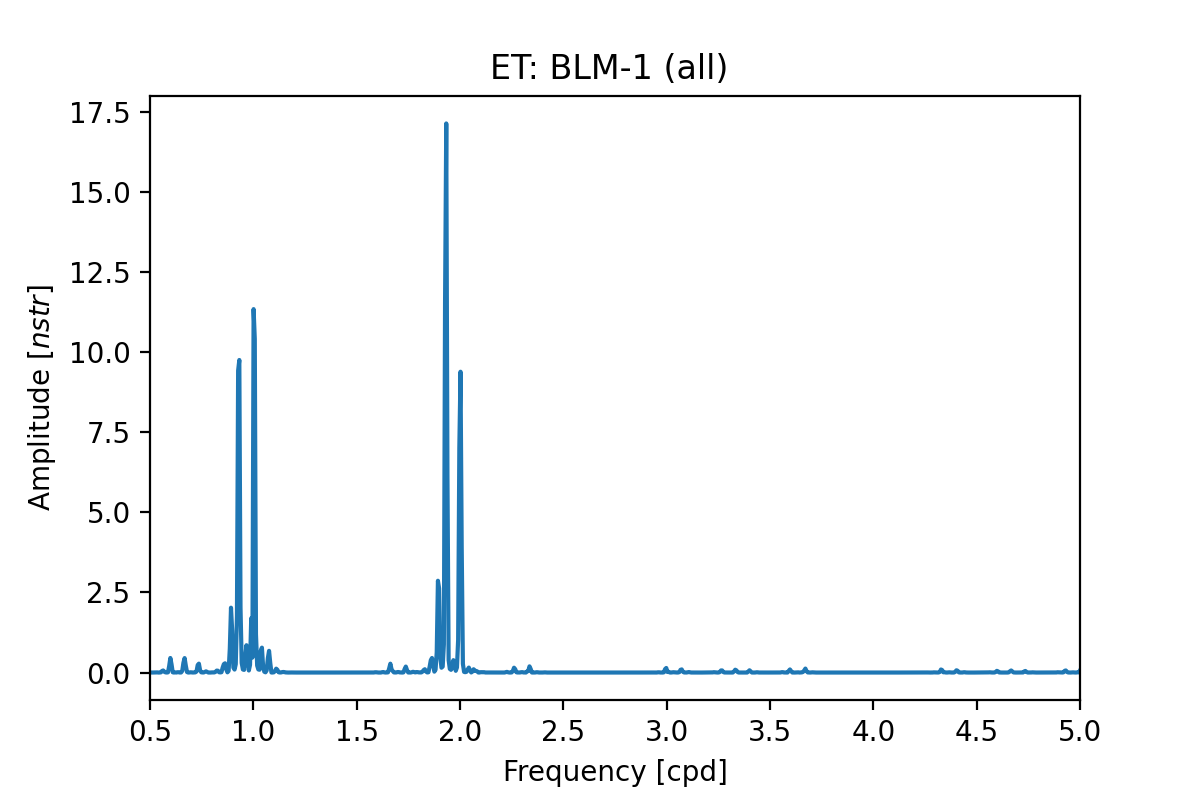
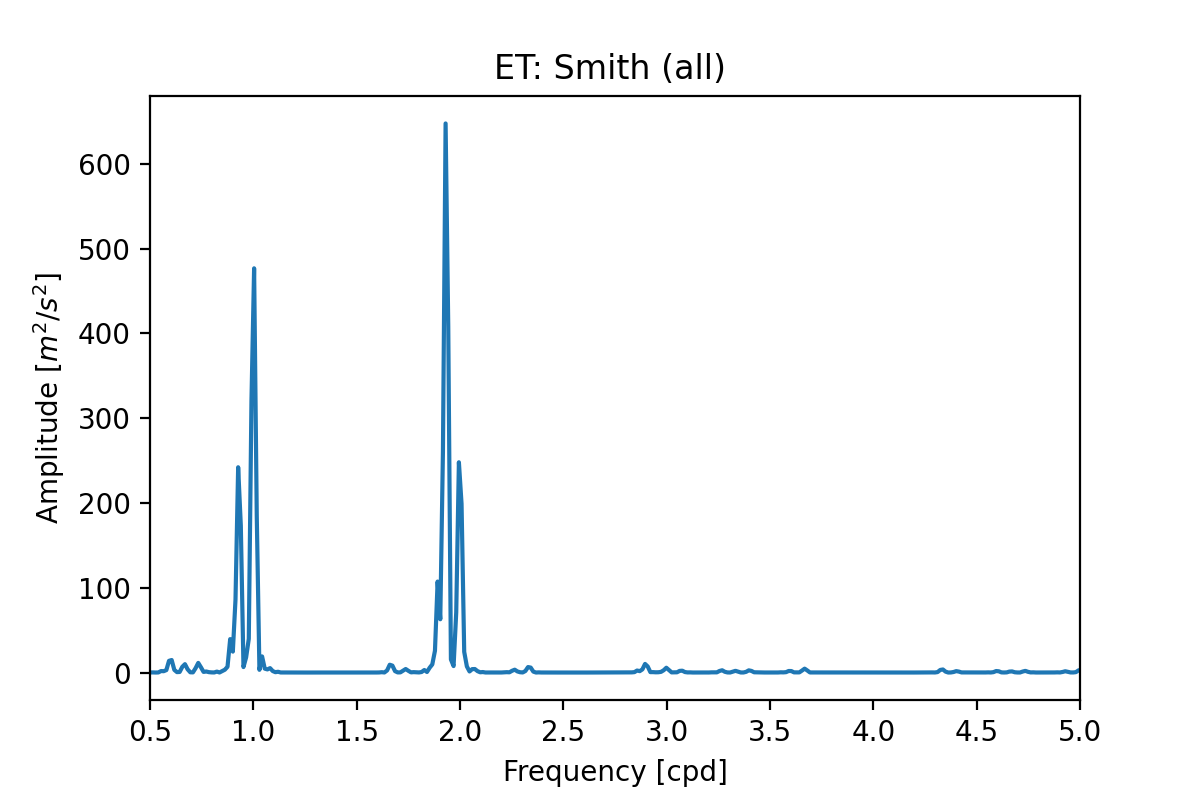
update

diff --git a/tests/test_gcr_FFT_fowlers.py b/tests/test_gcr_FFT_fowlers.py
@@ -1,0 +1,34 @@
+# -*- coding: utf-8 -*-
+"""
+Created on Mon Jun  7 09:30:26 2021
+
+@author: Daniel
+"""
+
+import hydrogeosines as hgs
+import numpy as np
+import pandas as pd
+
+#%%  Testing MVC principal
+fowlers = hgs.Site('csiro', geoloc=[141.73099, -31.2934, 160])
+
+fowlers.import_csv('tests/data/fowlers_gap/acworth_short.csv', 
+                        input_category=['BP', 'GW', 'GW', 'GW', 'ET'], 
+                        utc_offset = 10, 
+                        unit=['m', 'm', 'm', 'm', 'm**2/s**2'], 
+                        loc_names = ["Baro", "FG822-1", "FG822-2", "Smith", "ET"],
+                        how="add", check_duplicates=True)
+
+#%% Processing
+# create Instance of Processing with csiro_site
+process = hgs.Processing(fowlers)
+
+# test hals method
+fft_results  = process.fft(update=True)
+
+#%% Output
+csiro_output  = hgs.Output(fft_results) # process.results container or results
+
+# for visualization
+csiro_output.plot(xlim=[0.5, 5], file='fft.png') # possible different plotting style methods, e.g. simple, report, etc
+

diff --git a/hydrogeosines/view/ext/plot.py b/hydrogeosines/view/ext/plot.py
@@ -49,7 +49,7 @@ class Plot(object):
         unit = '?'
         if 'unit' in info:
             unit = info['unit']
-        ax.set_ylabel("Amplitude [$" + unit + "$]")
+        ax.set_ylabel("Amplitude [$" + unit.replace('**', '^') + "$]")
         ax.set_title(loc[2] + ': ' + loc[0] + ' (' + loc[1] + ') ')
         
         if 'xlim' in kwargs:
